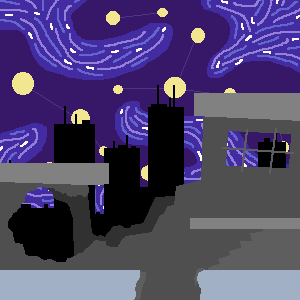
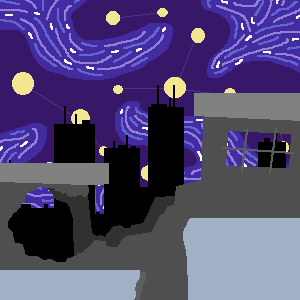
Cambios
No sirven de mucho porque no cambian nada para bien

Changed region(s): [[0.6, 0.72, 1.0, 1.0]]

diff --git a/GalaxyDodgerNoRegrets/juego/juego.js b/GalaxyDodgerNoRegrets/juego/juego.js
@@ -51,7 +51,7 @@
         miEnemigo1.x = 500;
         miEnemigo1.y = 466;
         
-        contador = 5;
+        contador = 300;
         actualizarContador();
     }
 
@@ -61,7 +61,7 @@
 		cancionFondo.play();
 	}
 
-    let contador = 5;
+    let contador = 300;
     let vidas = 3;
 
     function actualizarContador() {
@@ -70,7 +70,7 @@
 
         if (contador <= 0) {
             quitarVida();
-            contador = 5;
+            contador = 300;
         } else if (vidas === 0) {
             morir();
         }
@@ -82,7 +82,7 @@
             actualizarContador();
             setTimeout(iniciarContador, 1000);
         } else if (vidas === 0) {
-            contador = 5;
+            contador = 300;
             actualizarContador();
         }
     }
@@ -161,9 +161,8 @@
 
     let plataformas = [
         new Plataforma(0, 540, 278, 60), // Suelo 1
-        new Plataforma(398, 540, 202, 60), // Suelo 2
         new Plataforma(0, 326, 218, 40), // Plataforma 1
-        new Plataforma(380, 436, 220, 22), // Plataforma 2
+        new Plataforma(380, 436, 220, 170), // Plataforma 2
         new Plataforma(388, 186, 220, 50) // Plataforma 3
     ];
 
@@ -177,7 +176,7 @@
     
         // Verificar colisión con las plataformas
         plataformas.forEach(plataforma => {
-            if (this.x + 10 < plataforma.x + plataforma.tamañoSueloX && // No se sale de la plataforma por la derecha
+            if (this.x < plataforma.x + plataforma.tamañoSueloX && // No se sale de la plataforma por la derecha
                 this.x + this.tamañoX > plataforma.x && // No se sale de la plataforma por la izquierda
                 this.y + this.tamañoY > plataforma.y && // No está por encima de la superficie de la plataforma
                 this.y + this.tamañoY < plataforma.y + plataforma.tamañoSueloY) { // No está por debajo de la plataforma
@@ -280,17 +279,19 @@
 
         miEnemigo1.x += 4 * miEnemigo1.direccion;
 
-        if (miEnemigo1.x > TOPEDERECHA) {
-            miEnemigo1.direccion = -1;
-            xEnemigo1Derecha = false;
-            xEnemigo1Izquierda = true;
-        }
+        console.log(miEnemigo1.direccion);
 
-        else if (miEnemigo1.x < TOPEIZQUIERDA) {
-            miEnemigo1.direccion = 1;
-            xEnemigo1Izquierda = false;
-            xEnemigo1Derecha = true;
-        }
+        plataformas.forEach(plataforma => {
+            if (miEnemigo1.x + miEnemigo1.tamañoX >= plataforma.x + plataforma.tamañoSueloX) {
+                miEnemigo1.direccion = -1;
+                xEnemigo1Derecha = false;
+                xEnemigo1Izquierda = true;
+            } else if (miEnemigo1.x <= plataforma.x) {
+                miEnemigo1.direccion = 1;
+                xEnemigo1Izquierda = false;
+                xEnemigo1Derecha = true;
+            }
+        });
 
         ctx.drawImage(miEnemigo1.imagenEnemigo1,
             miEnemigo1.animacionEnemigo1[posicionAnimacionEnemigo1][0],
@@ -672,7 +673,7 @@
         Enemigo1.prototype.imagenEnemigo1 = imagenEnemigo1;
         
         miDD = new DD(x, y);  
-        miEnemigo1 = new Enemigo1(500, 466);
+        miEnemigo1 = new Enemigo1(150, 466);
 
         reproducirCancionFondo();
         
